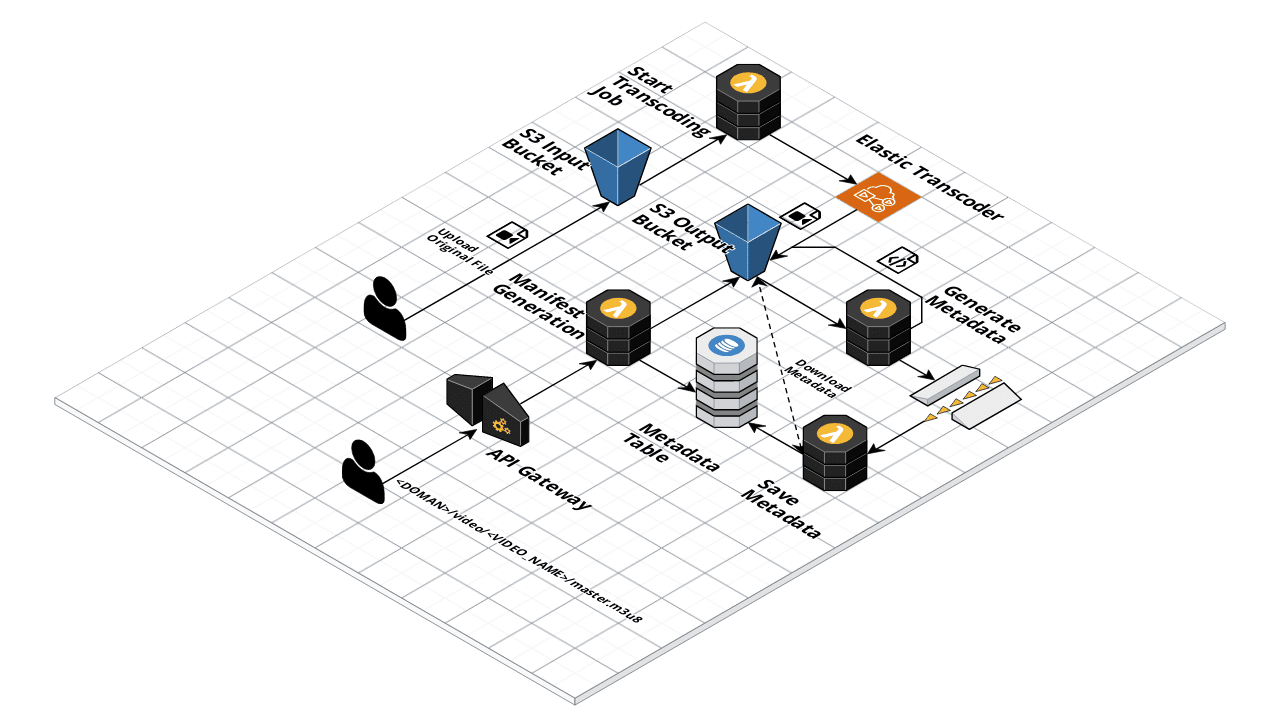
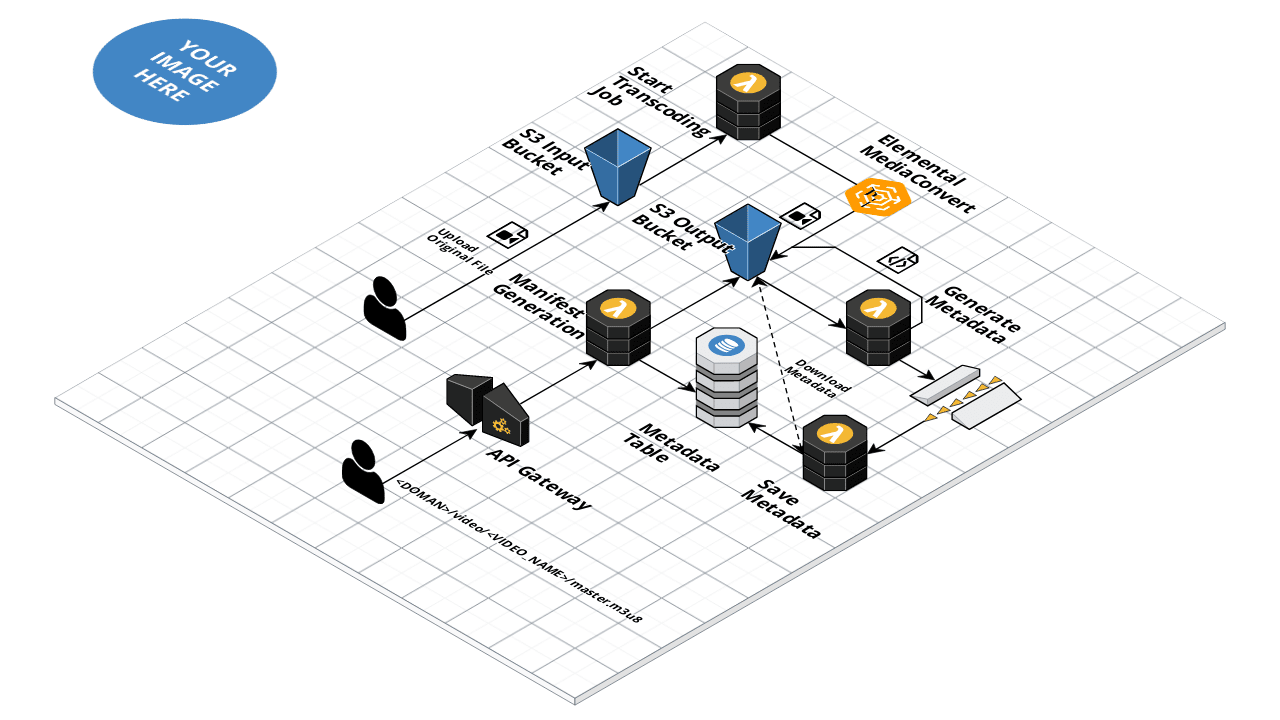
Updating README.md

Changed region(s): [[0.0625, 0.0, 0.2188, 0.1833], [0.6562, 0.1833, 0.7812, 0.3056]]

diff --git a/README.md b/README.md
@@ -24,9 +24,8 @@ Using the gradle task `shadowJar` compile and create the packages
 ```
 
 ### Deploy the CloudFormation stack
-Using the serverless framework and the `pipeline-id` from the first step.
 ```bash
-serverless deploy --pipelineId <PIPELINE_ID>
+serverless deploy
 ```
 ### Update the Elastic Transcoder pipeline buckets
 Update the Elastic Transcoder input and output buckets with the values of the CloudFormation outputs `InputBucketName` 
@@ -35,20 +34,14 @@ and `OutputBucketName`
 ## How to use
 
 1. Upload a video file e.g. `example.mp4` to the input bucket.
-1. The pipeline will produce the following files:
-    - hls400k_frames.json
-    - hls400k.json
-    - hls400k.ts
-    - hls600k_frames.json
-    - hls600k.json
-    - hls1000k_frames.json	
-    - hls1000k.ts
-    - hls1500k_frames.json
-    - hls1500k.json
-    - hls1500k.ts
-    - hls2000k_frames.json
-    - hls2000k.json
-    - hls2000k.ts
+1. MediaConvert will produce a `.ts`, `.m3u8`, and a couple `.json` files for the following renditions:
+   - `480x270`
+   - `640x360`
+   - `960x540`
+   - `1280x720`
+   - `1920x1080`
+   - `1600x1200`
+   
 1. Once these files have been created, visit the API Gateway endpoint in Safari (or using the [Native HLS](https://addons.mozilla.org/en-US/firefox/addon/native_hls_playback/)) plugin:
 ```
 https://<ID>.execute-api.us-<REGION>.amazonaws.com/<STAGE>/video/example/master.m3u8
